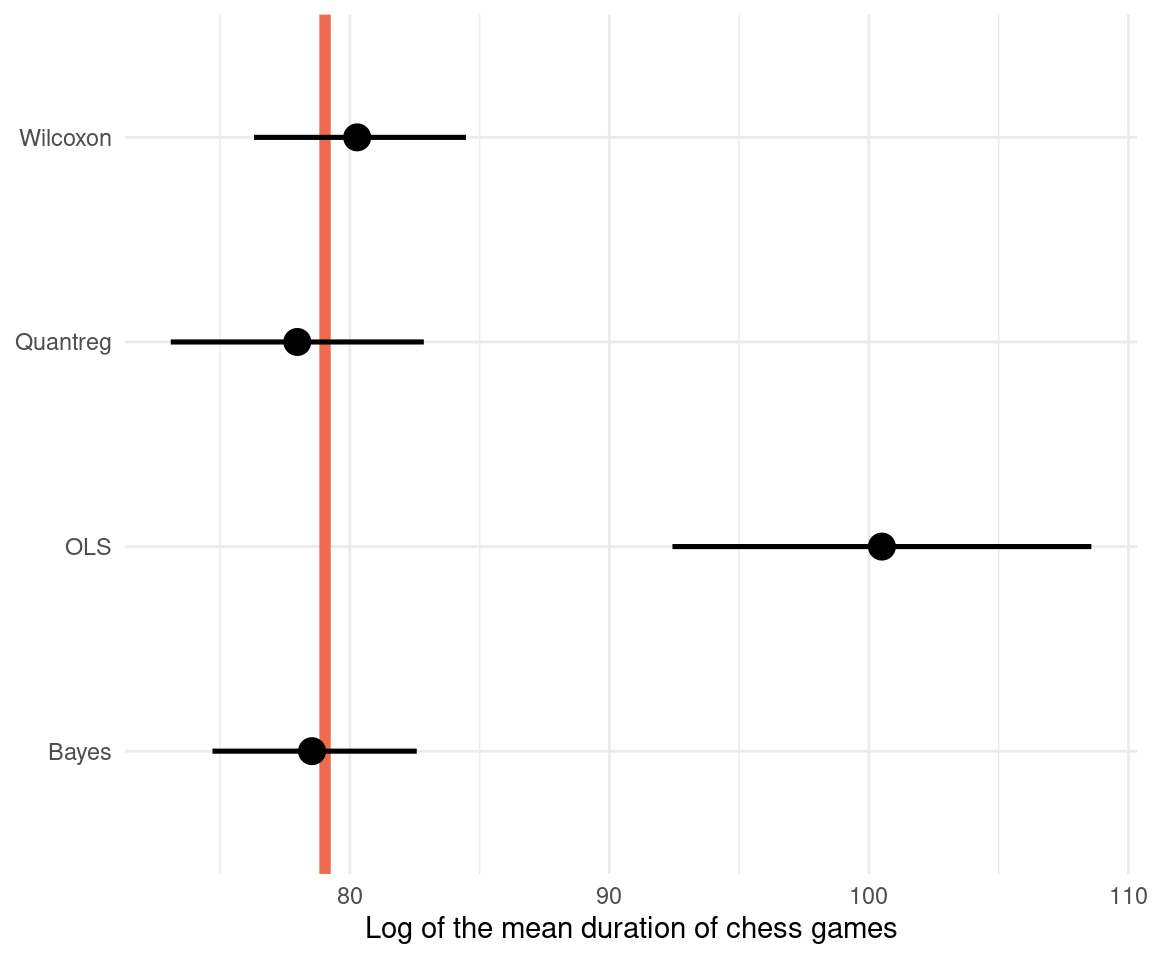
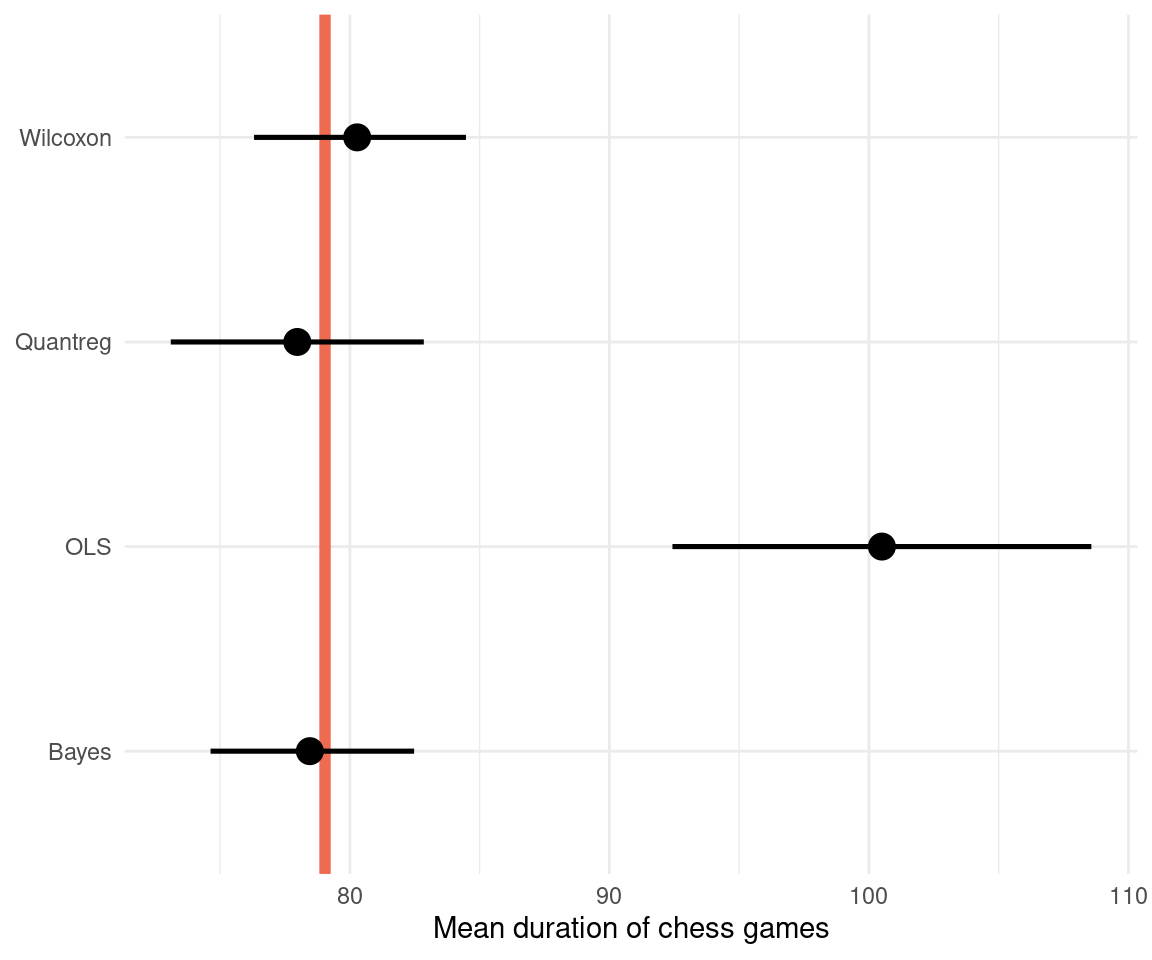
remove typo in fig cap

Changed region(s): [[0.3125, 0.9375, 0.7812, 1.0]]

diff --git a/content/post/wilcoxon_signed_rank.html b/content/post/wilcoxon_signed_rank.html
@@ -278,7 +278,7 @@ result_posterior %&gt;%
 hyp_test </code></pre>
 <pre><code>## Hypothesis Tests for class :
 ##               Hypothesis Estimate Est.Error CI.Lower CI.Upper Evid.Ratio
-## 1 (b_Intercept)-(75) &gt; 0     3.57      1.98     0.34     6.83      26.78
+## 1 (b_Intercept)-(75) &gt; 0     3.49      2.05     0.21     6.89      23.39
 ##   Post.Prob Star
 ## 1      0.96    *
 ## ---
@@ -286,7 +286,7 @@ hyp_test </code></pre>
 ## &#39;*&#39;: For one-sided hypotheses, the posterior probability exceeds 95%;
 ## for two-sided hypotheses, the value tested against lies outside the 95%-CI.
 ## Posterior probabilities of point hypotheses assume equal prior probabilities.</code></pre>
-<p>It’s 26.8 times more likely that the average chess game from the sample takes more than 75 minutes, than that the average is less than 75 minutes.</p>
+<p>It’s 23.4 times more likely that the average chess game from the sample takes more than 75 minutes, than that the average is less than 75 minutes.</p>
 </div>
 </div>
 <div id="comparison" class="section level1">
@@ -366,12 +366,12 @@ dat_comparison %&gt;%
 </tr>
 <tr class="even">
 <td align="left">Bayes</td>
-<td align="right">4.364</td>
-<td align="right">4.314</td>
-<td align="right">4.414</td>
-<td align="right">0.378</td>
+<td align="right">4.363</td>
+<td align="right">4.313</td>
+<td align="right">4.413</td>
+<td align="right">0.377</td>
 <td align="right">0.342</td>
-<td align="right">0.417</td>
+<td align="right">0.418</td>
 </tr>
 </tbody>
 </table>
@@ -396,7 +396,7 @@ dat_comparison %&gt;%
   geom_vline(xintercept = exp(4.37), 
              size = 2, colour = &quot;coral2&quot;) +
   geom_pointrange(size = 0.9) +
-  labs(x = &quot;Log of the mean duration of chess games&quot;, 
+  labs(x = &quot;Mean duration of chess games&quot;, 
        y = NULL) +
   theme_minimal()</code></pre>
 <p><img src="/post/wilcoxon_signed_rank_files/figure-html/standard%20deviantion-1.png" width="576" /></p>
